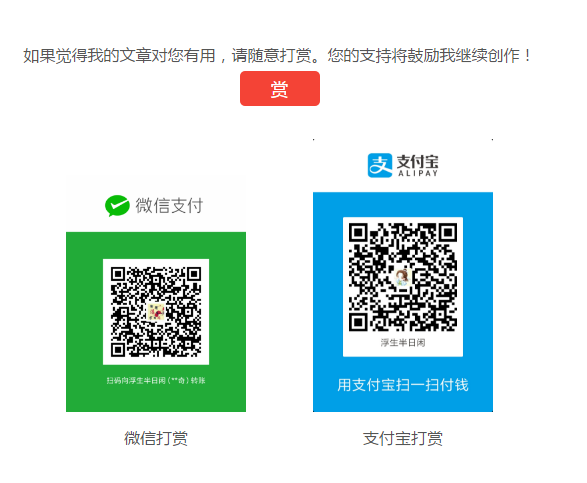
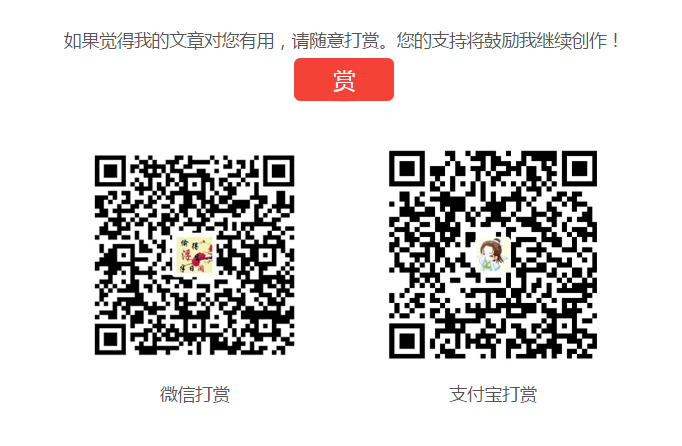
打赏功能：添加美图秀秀剪裁，更新打赏图片

diff --git a/source/_posts/hexo-next主题添加打赏功能.md b/source/_posts/hexo-next主题添加打赏功能.md
@@ -14,6 +14,10 @@ next主题集成了打赏功能，使用起来比较简单。
 
 我们可以在source目录下建立一个images文件夹，将上面保存的图片放入。
 
+由于微信和支付宝生成的二维码都有外框，我们可以利用美图秀秀等软件进行剪裁。
+选定要宽度和高度并勾选锁定剪裁尺寸，将剪裁框拖到合适地方，点击"剪裁按钮"，再Ctrl + s 保存即可。
+![剪裁图片](hexo-next主题添加打赏功能/20170408140902.png)
+
 找到主题next下的配置文件_config.yml，添加信息如下：
 ```
 # reward
